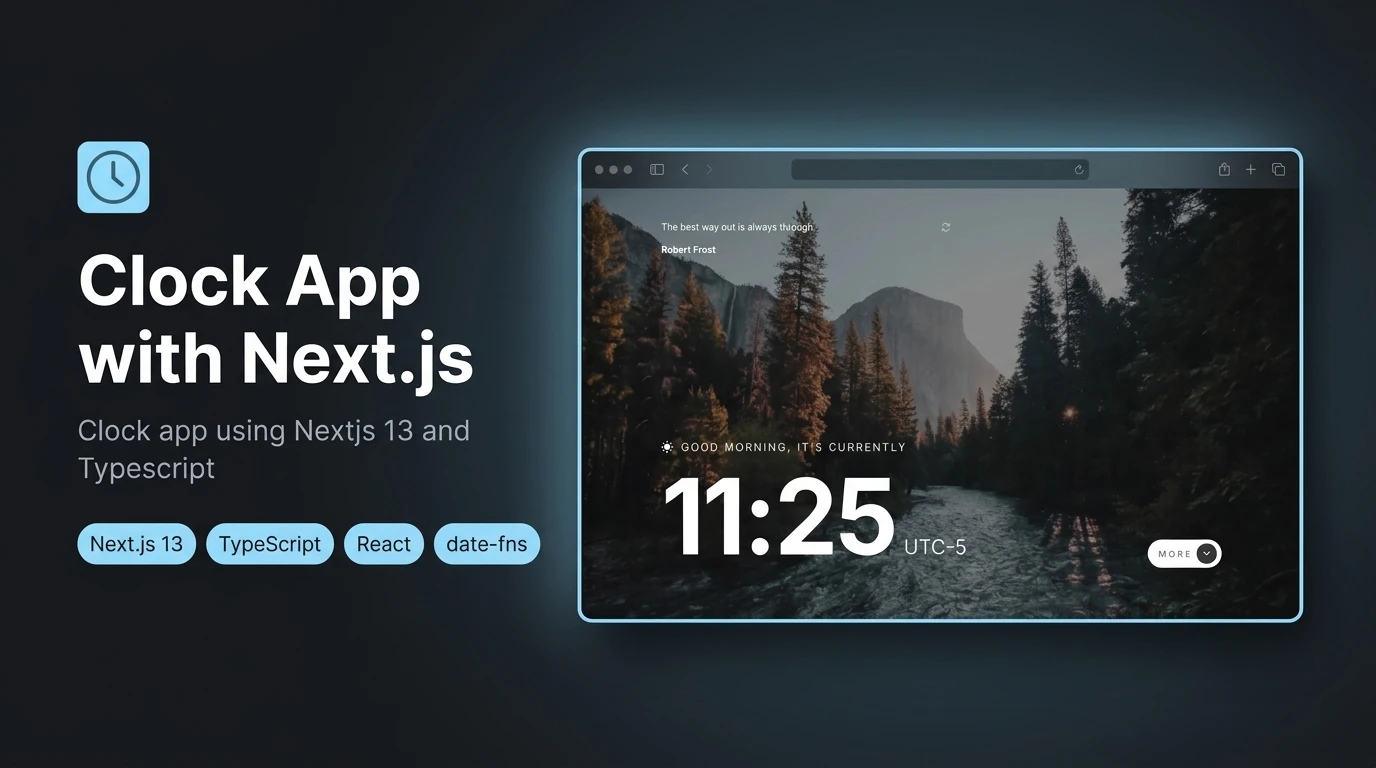
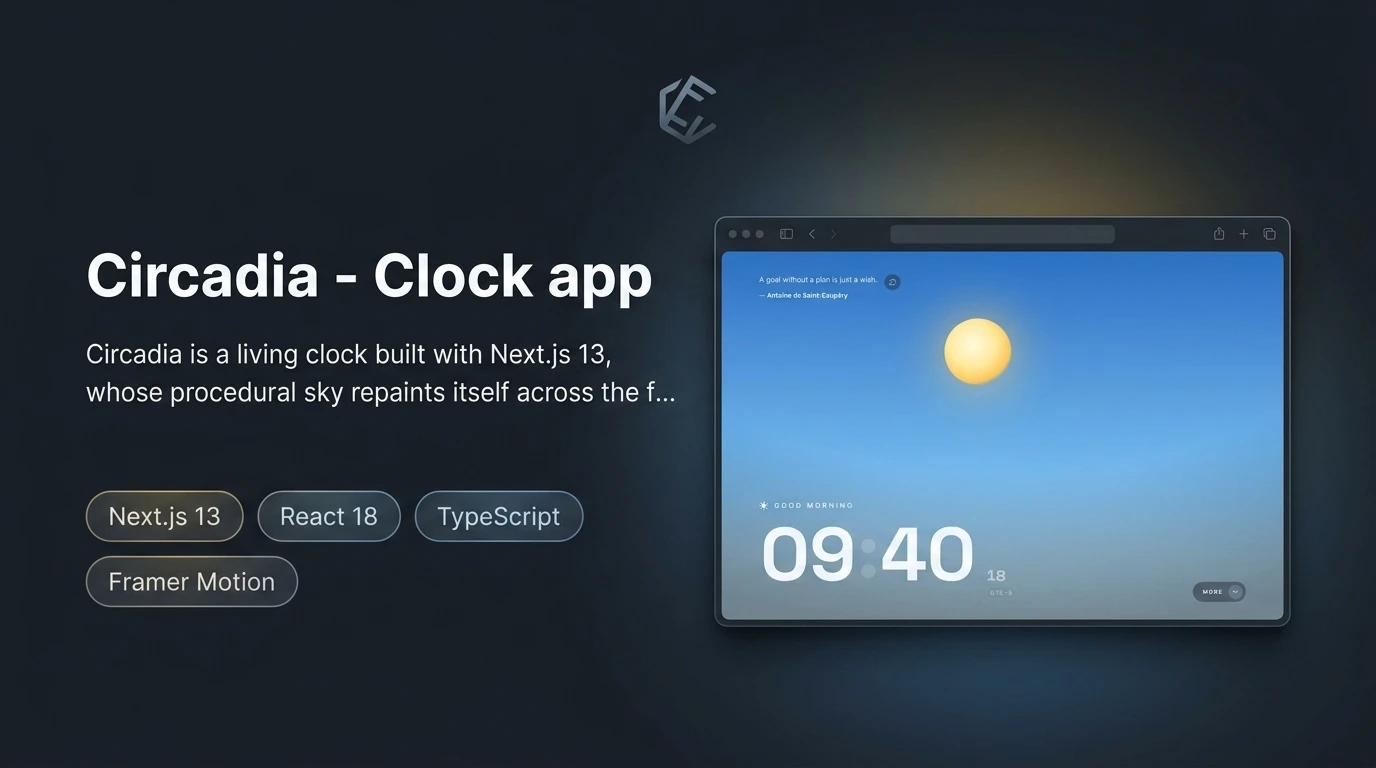
docs: sync README from studio

diff --git a/README.md b/README.md
@@ -11,7 +11,7 @@
   <a href='/'>
     <img
       src='screenshot.webp'
-      alt='Screenshot of the app'
+      alt='Circadia clock app showing a procedural daytime sky with a glowing sun, a Good morning greeting, the time 09:40 and a rotating quote.'
       width='100%'
     />
   </a>
@@ -33,7 +33,7 @@
 </div>
 
 <div align='center'>
-  Circadia — a living clock built with Next.js 13 and TypeScript. A procedural sky repaints itself across the 24-hour cycle, split-flap digits tick out the local time, and an expandable panel adds timezone, day-of-year and week details alongside IP-based location and a rotating quote.
+  Circadia — a living clock built with Next.js 13 and TypeScript. A procedural sky interpolates a 24-hour colour gradient through night, dawn, day and dusk with stars fading in after dark, split-flap digits spring-flip on every change, and a time-of-day greeting reveals letter by letter. An expandable panel adds timezone, day of year, day of week and week number with counters that animate up, alongside IP-based city detection and a refreshable quote.
 
 [Demo][demo-link] · [Report issue](/issues) · [Suggest something](/issues)
 
